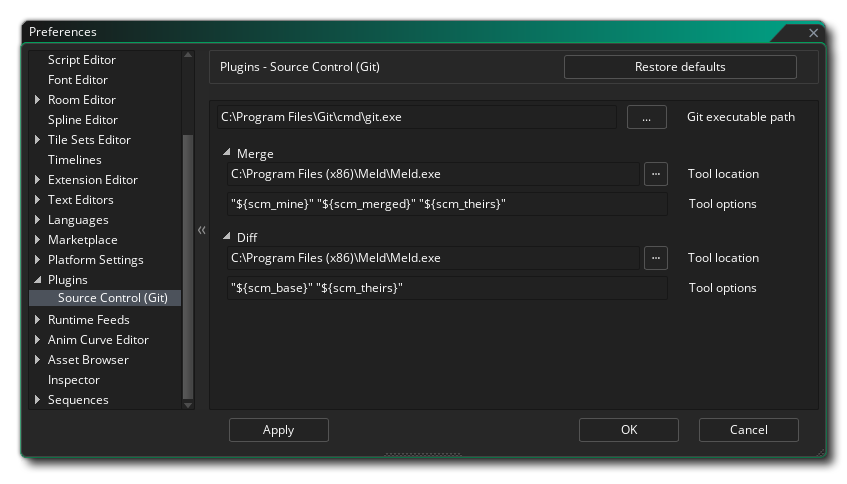
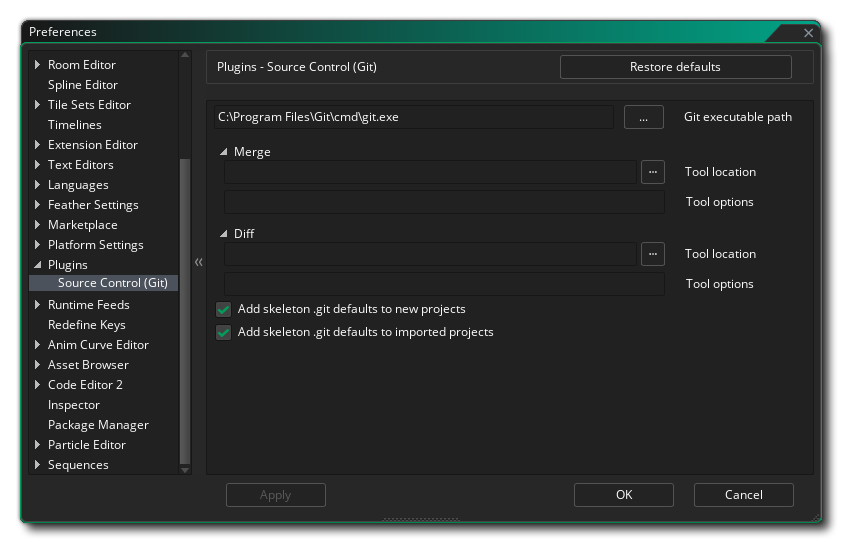
docs(feature): Start new projects with a seed .gitignore and .gitattributes file YoYoGames/GameMaker-Bugs#2922 YoYoGames/GameMaker-Bugs#4559
* Updated the screenshot on the "Plugin Preferences" page and listed the new preferences
* Added info on the default .gitignore and .gitattributes files and LF endings on the "Project Format" page, added links to prefs where appropriate

diff --git a/Manual/contents/Additional_Information/Project_Format.htm b/Manual/contents/Additional_Information/Project_Format.htm
@@ -16,17 +16,30 @@
 <body>
   <h1><span data-field="title" data-format="default">Project Format</span></h1>
   <p>This page contains details on the project format used by <span data-keyref="GameMaker Name">GameMaker</span>.</p>
-  <h2>Format Basics</h2>
-  <h3>The YYP Project File</h3>
-  <p>At the root is the main project file, with a <span class="inline2">*.yyp</span> extension. It describes the resources in the project and other meta data specific to it.</p>
-  <h3>The .resource_order File</h3>
-  <p>Next to it is another file with the same name, but a <span class="inline2">*.resource_order</span> extension instead. This file stores the order of groups and assets in <a data-xref="{title}" href="../Introduction/The_Asset_Browser.htm">The Asset Browser</a> used when the filter is set to <strong>Custom Order</strong>.</p>
-  <p class="note"><span data-conref="../assets/snippets/Tag_tip.hts"> </span> When using version control, you can e.g. add this file to .gitignore so each user of the project can have their own custom ordering in <a data-xref="{title}" href="../Introduction/The_Asset_Browser.htm">The Asset Browser</a>.</p>
-  <h3>YY Files</h3>
+  <h2 id="format_basics">Format Basics</h2>
+  <h3 id="the_yyp_project_file">The YYP Project File</h3>
+  <p>At the root is the main project file, with a <span class="inline2">*.yyp</span> extension. It describes the resources in the project and other metadata specific to it.</p>
+  <h3 id="the_resource_order_file">The .resource_order File</h3>
+  <p>Next to it is another file with a <span class="inline2">*.resource_order</span> extension. This file stores the order of groups and assets in <a data-xref="{title}" href="../Introduction/The_Asset_Browser.htm">The Asset Browser</a> used when the filter is set to <strong>Custom Order</strong>.</p>
+  <p class="note"><span data-conref="../assets/snippets/Tag_note.hts"> </span> <span data-keyref="GameMaker Name">GameMaker</span> will add this file to <span class="inline2">.gitignore</span> by default if <strong>Add skeleton .git defaults to new/imported projects</strong> is enabled under <strong>Source Control (Git)</strong> in the <a data-xref="{title}" href="../Setting_Up_And_Version_Information/IDE_Preferences/Plugin_Preferences.htm">Plugin Preferences</a>.</p>
+  <h3 id="yy_files">YY Files</h3>
   <p>These are resource files; they store information on individual assets in a <span data-keyref="GameMaker Name">GameMaker</span> project. They describe the data for the resource and any other files belonging to the resource (e.g. scripts, shaders, images and audio files). These data are stored in a JSON-like format.</p>
-  <h2>YYZ Files</h2>
+  <h3 id="gitignore_and_gitattributes_files">.gitignore and .gitattributes Files</h3>
+  <p>These two files affect how a <span data-keyref="GameMaker Name">GameMaker</span> project is treated by Git. They are automatically added to new and/or imported projects when <strong>Add skeleton .git defaults to new/imported projects</strong> under <strong>Source Control (Git)</strong> in the <a data-xref="{title}" href="../Setting_Up_And_Version_Information/IDE_Preferences/Plugin_Preferences.htm">Plugin Preferences</a> is enabled. You can also disable the settings and add and modify these files yourself instead.</p>
+  <p class="note"><span data-conref="../assets/snippets/Tag_note.hts"> </span> These files are only used with source control, which you can enable in the <a data-xref="{title}" href="../Settings/Game_Options.htm">Game Options</a>.</p>
+  <p><span>The <span class="inline2">.gitignore</span> file is used to make Git ignore certain patterns of files. The default <span class="inline2">.gitignore</span> file added by <span data-keyref="GameMaker Name">GameMaker</span> ignores a few files and file extensions:</span></p>
+  <ul class="colour">
+    <li><span>Files added <span>to directories </span>by <span>Windows and </span>macOS that can be ignored (e.g. thumbnails).</span></li>
+    <li><span>The <span class="inline2">.resource_order</span> file used by <span data-keyref="GameMaker Name">GameMaker</span> itself, used as more of a user-specific way of ordering the asset tree. This file doesn&#39;t have to be included in source control setups unless explicitly wanted.</span></li>
+  </ul>
+  <p><span>The <span class="inline2">.gitattributes</span> file controls how Git handles certain files. The default <span class="inline2">.gitattributes</span> file added by <span data-keyref="GameMaker Name">GameMaker</span> introduces the following changes: </span></p>
+  <ul class="colour">
+    <li><span><span data-keyref="GameMaker Name">GameMaker</span>&#39;s <span class="inline2">.yy</span> files as marked as <em>linguist-generated</em>, which prevents GitHub from identifying these as the wrong <span><span>language.</span></span></span></li>
+    <li><span>Line endings are forced to be LF (<em>line feed</em>) for metadata files <span>to make merging easier across different platforms, as </span>Windows, macOS and Linux all use different conventions to represent a line ending.</span></li>
+  </ul>
+  <h2 id="yyz_files">YYZ Files</h2>
   <p>This type of file stores a compressed project export, created via the <strong>Export Project</strong> &gt; <strong>YYZ</strong> option in <a data-xref="{title}" href="../IDE_Navigation/Menus/The_File_Menu.htm">The File Menu</a>. Depending on the version of <span data-keyref="GameMaker Name">GameMaker</span>, the compression method used may vary.</p>
-  <h2>Local Asset Packages</h2>
+  <h2 id="local_asset_packages">Local Asset Packages</h2>
   <p>These are created and imported from (part of) a project&#39;s contents using <strong>Create Local Package</strong> and <strong>Import Local Package</strong> respectively in <a data-xref="{title}" href="../IDE_Navigation/Menus/The_Tools_Menu.htm">The Tools Menu</a>.</p>
   <p>The following is an overview of the file formats used by different <span data-keyref="GameMaker Name">GameMaker</span> versions: </p>
   <ul class="Disc">

diff --git a/Manual/contents/Setting_Up_And_Version_Information/IDE_Preferences/Plugin_Preferences.htm b/Manual/contents/Setting_Up_And_Version_Information/IDE_Preferences/Plugin_Preferences.htm
@@ -4,7 +4,7 @@
 <head>
   <meta http-equiv="Content-Type" content="text/html; charset=utf-8" />
   <title>Plugin Preferences</title>
-  <meta name="generator" content="Adobe RoboHelp 2020" />
+  <meta name="generator" content="Adobe RoboHelp 2022" />
   <link rel="stylesheet" href="../../assets/css/default.css" type="text/css" />
   <script src="../../assets/scripts/main_script.js" type="module"></script>
   <meta name="rh-authors" content="Mark Alexander" />
@@ -14,13 +14,13 @@
 </head>
 <body>
   <!--<div class="body-scroll" style="top: 150px;">-->
-  <h1>Plugin Preferences</h1>
-  <p>The <strong>Plugins Preferences</strong> are used to control any extra plugins that have been added to the <span data-keyref="GameMaker Name">GameMaker</span> IDE. By default this has one section dedicated to the <strong>Source Control</strong> plugin for integrating <span data-keyref="GameMaker Name">GameMaker</span> projects with <a href="https://git-scm.com/">Git</a>.</p>
+  <h1><span data-field="title" data-format="default">Plugin Preferences</span></h1>
+  <p>The <strong><span data-field="title" data-format="default">Plugin Preferences</span></strong> are used to control any extra plugins that have been added to the <span data-keyref="GameMaker Name">GameMaker</span> IDE. By default this has one section dedicated to the <strong>Source Control</strong> plugin for integrating <span data-keyref="GameMaker Name">GameMaker</span> projects with <a href="https://git-scm.com/">Git</a>.</p>
   <p><a class="dropspot" data-rhwidget="DropSpot" data-target="drop-down1" href="#">Source Control (Git)</a></p>
   <div class="droptext" data-targetname="drop-down1">
     <p class="dropspot"><img alt="Plugins Git SCM Preferences" class="center" src="../../assets/Images/Setup_And_Version/Preferences/Plugins_Git_Prefs.png" />This section deals with the preferences that are required to get the <a href="../../IDE_Tools/Source_Control.htm">Git SCM</a> plugin to work with <span data-keyref="GameMaker Name">GameMaker</span>.</p>
     <ul class="dropspotlist">
-      <li class="dropspot"><strong>Git executable path</strong>: This is the location of the Git executable which GameMaker uses for all Source Control commands. As shown in the image above, this will be located in the <span class="inline">cmd</span> folder of your Git installation.</li>
+      <li class="dropspot"><strong>Git executable path</strong>: This is the location of the Git executable which <span data-keyref="GameMaker Name">GameMaker</span> uses for all Source Control commands. This will be located in the <span class="inline">cmd</span> folder of your Git installation by default, as shown in the image above.</li>
     </ul>
     <p class="dropspot">Below this you can set up the <em>Merge Tool</em> and the <em>Diff Tool</em> for Source Control with these settings (<strong>optional</strong>):</p>
     <ul class="dropspotlist">
@@ -28,6 +28,13 @@
       <li class="dropspot"><strong><strong>Merge (Tool options)</strong></strong>: In this field you can add any extra commands to be run whenever you use the merge Tool.</li>
       <li class="dropspot"><strong><strong>Diff (Tool location)</strong></strong>: Here you specify the full file path to the Git diff tool.</li>
       <li class="dropspot"><strong><strong><strong>Diff (Tool options)</strong></strong></strong>: In this field you can add any extra commands to be run whenever you use the diff Tool.</li>
+    </ul>
+    <p class="dropspot">Finally there are two more options that affect how Git is set up in new projects: </p>
+    <ul class="dropspotlist">
+      <li class="dropspot"><strong>Add skeleton .git defaults to new projects</strong>: When this setting is enabled, <span data-keyref="GameMaker Name">GameMaker</span> will add <a data-xref="{text}" href="../../Additional_Information/Project_Format.htm#gitignore_and_gitattributes_files">.gitignore and .gitattributes Files</a> to new projects that you create. It is enabled by default.</li>
+      <li class="dropspot"><strong>Add skeleton .git defaults to imported projects</strong>: When this setting is enabled, <span data-keyref="GameMaker Name">GameMaker</span> will add <a data-xref="{text}" href="../../Additional_Information/Project_Format.htm#gitignore_and_gitattributes_files">.gitignore and .gitattributes Files</a> to projects that you import from a <span class="inline2"><span data-keyref="Const_ExportProject_Extension">.yyz</span></span> file. It is enabled by default.</li>
+    </ul>
+    <ul class="dropspotlist">
     </ul>
   </div>
   <p> </p>
@@ -39,7 +46,7 @@
         <div style="float:right">Next: <a href="Runtime_Feed_Preferences.htm">Runtime Feed Preferences</a></div>
       </div>
     </div>
-    <h5><span data-keyref="Copyright Notice">© Copyright YoYo Games Ltd. 2021 All Rights Reserved</span></h5>
+    <h5><span data-keyref="Copyright Notice">© Copyright YoYo Games Ltd. 2023 All Rights Reserved</span></h5>
   </div>
   <!-- KEYWORDS
 Preferences - Plugins

diff --git a/Manual/contents/IDE_Tools/Source_Control/Setting_Up_Git_Plugin.htm b/Manual/contents/IDE_Tools/Source_Control/Setting_Up_Git_Plugin.htm
@@ -4,7 +4,7 @@
 <head>
   <meta http-equiv="Content-Type" content="text/html; charset=utf-8" />
   <title>Setting Up The Git Plugin</title>
-  <meta name="generator" content="Adobe RoboHelp 2020" />
+  <meta name="generator" content="Adobe RoboHelp 2022" />
   <link rel="stylesheet" href="../../assets/css/default.css" type="text/css" />
   <script src="../../assets/scripts/main_script.js" type="module"></script>
   <meta name="rh-authors" content="Mark Alexander" />
@@ -17,19 +17,19 @@
   <h1>Setting Up The Git Plugin</h1>
   <p>Before we can use the Git plugin, we need to set up the Git executable to use by going into the <a href="../../Setting_Up_And_Version_Information/IDE_Preferences/Plugin_Preferences.htm">Plugins - Source Control (Git)</a> section of the <a href="../../Setting_Up_And_Version_Information/IDE_Preferences.htm">Preferences</a>:</p>
   <p><img alt="Plugins Git SCM Preferences" class="center" src="../../assets/Images/Setup_And_Version/Preferences/Plugins_Git_Prefs.png" /></p>
-  <p>The Git executable path should be auto-filled if it&#39;s found by GameMaker, however if the field is empty, you can click on the <img class="icon" height="24" src="../../assets/Images/Icons/Icon_Browse.png" width="40" /> button and manually select the <span class="inline">git.exe</span> file included in <span class="inline">cmd</span> folder of your Git installation, which is usually inside <span class="inline">C:\Program Files\Git\</span>.</p>
+  <p>The Git executable path should be auto-filled if it&#39;s found by <span data-keyref="GameMaker Name">GameMaker</span>, however if the field is empty, you can click on the <img class="icon" height="24" src="../../assets/Images/Icons/Icon_Browse.png" width="40" /> button and manually select the <span class="inline">git.exe</span> file included in <span class="inline">cmd</span> folder of your Git installation, which is usually inside <span class="inline">C:\Program Files\Git\</span>.</p>
   <p>For the rest of the Git options, see the <a href="../../Setting_Up_And_Version_Information/IDE_Preferences/Plugin_Preferences.htm">Plugin Preferences</a> page.</p>
-  <p>Before you can use Source Control for your project, you need to go into the Game Options and enable Source Control:</p>
+  <p>Before you can use Source Control for your project, you need to go into the <a data-xref="{title}" href="../../Settings/Game_Options.htm">Game Options</a> and enable Source Control:</p>
   <p><img alt="Enable Source Control" class="center" src="../../assets/Images/IDE Tools/SCM_EnableSourceControl.png" /></p>
   <p> </p>
   <div class="footer">
     <div class="buttons">
       <div class="clear">
-        <div style="float:left">Back: <a href="../Source_Control.htm">Source Control</a></div>
+        <div style="float:left">Back: <a data-xref="{title}" href="../Source_Control.htm">Source Control</a></div>
         <div style="float:right">Next: <a href="Repository_Options.htm">Repository Options</a> </div>
       </div>
     </div>
-    <h5><span data-keyref="Copyright Notice">© Copyright YoYo Games Ltd. 2021 All Rights Reserved</span></h5>
+    <h5><span data-keyref="Copyright Notice">© Copyright YoYo Games Ltd. 2023 All Rights Reserved</span></h5>
   </div>
   <!-- KEYWORDS
 Setting Up GIT
